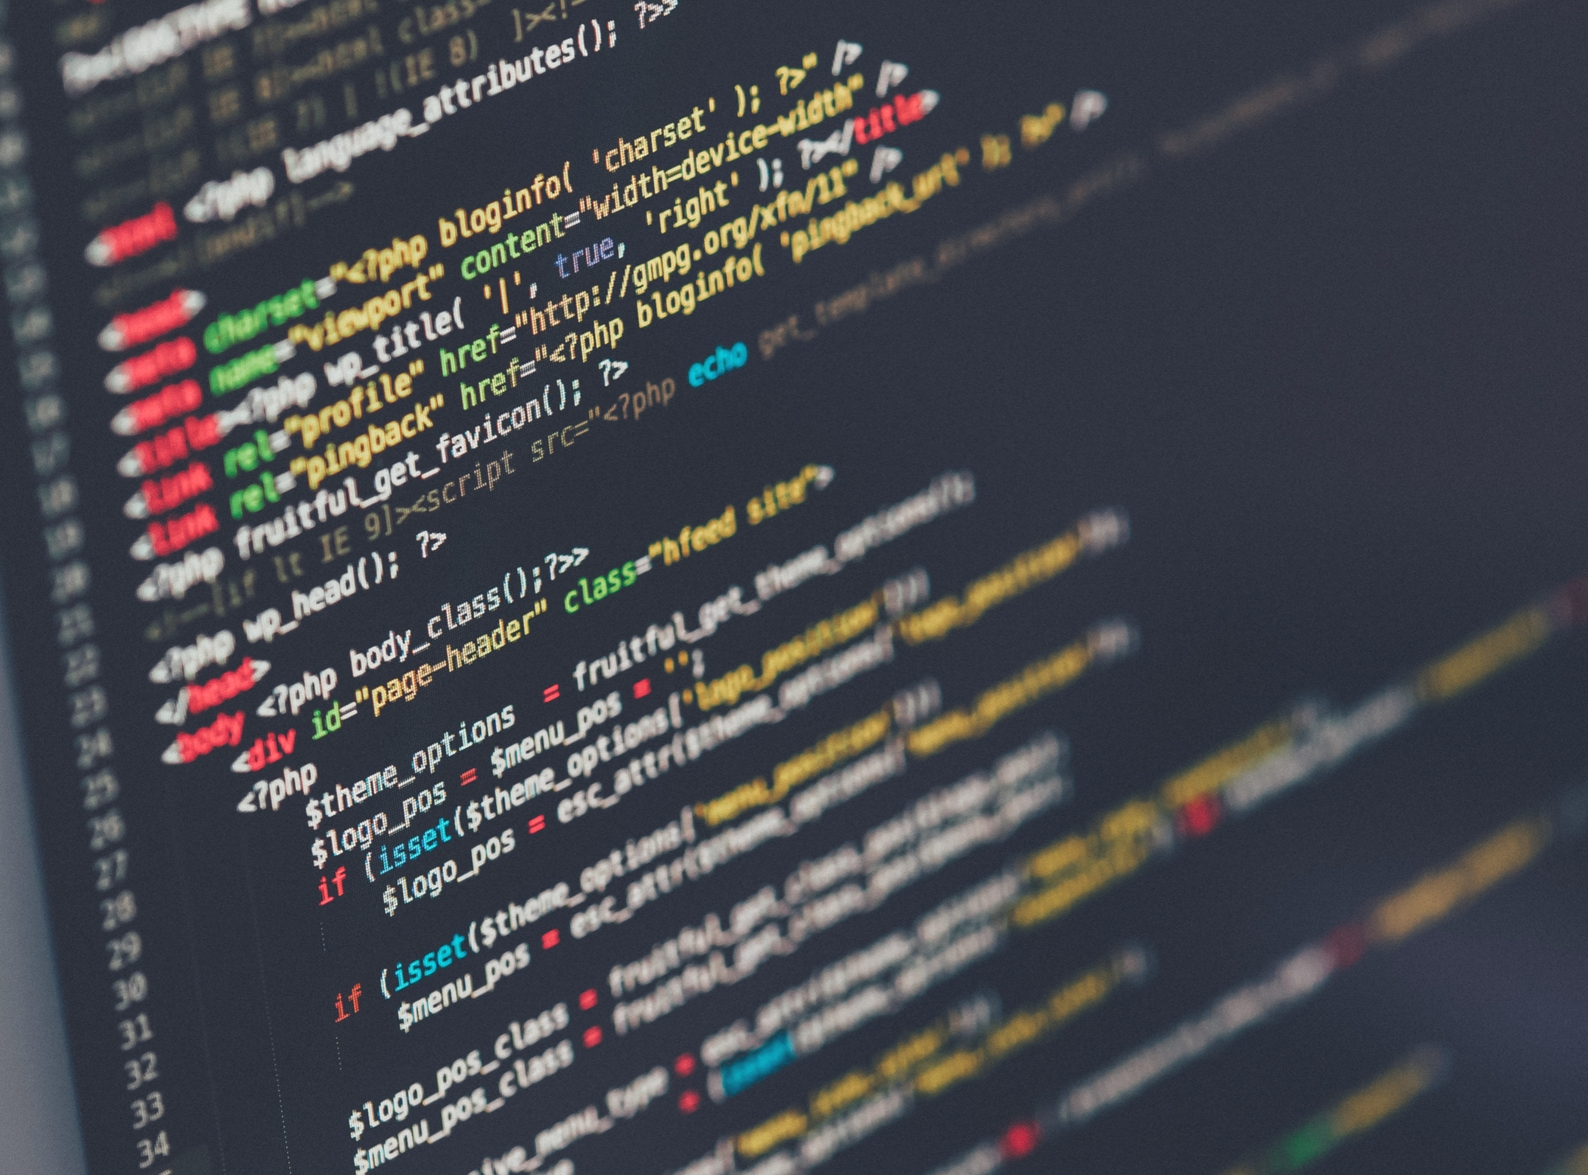
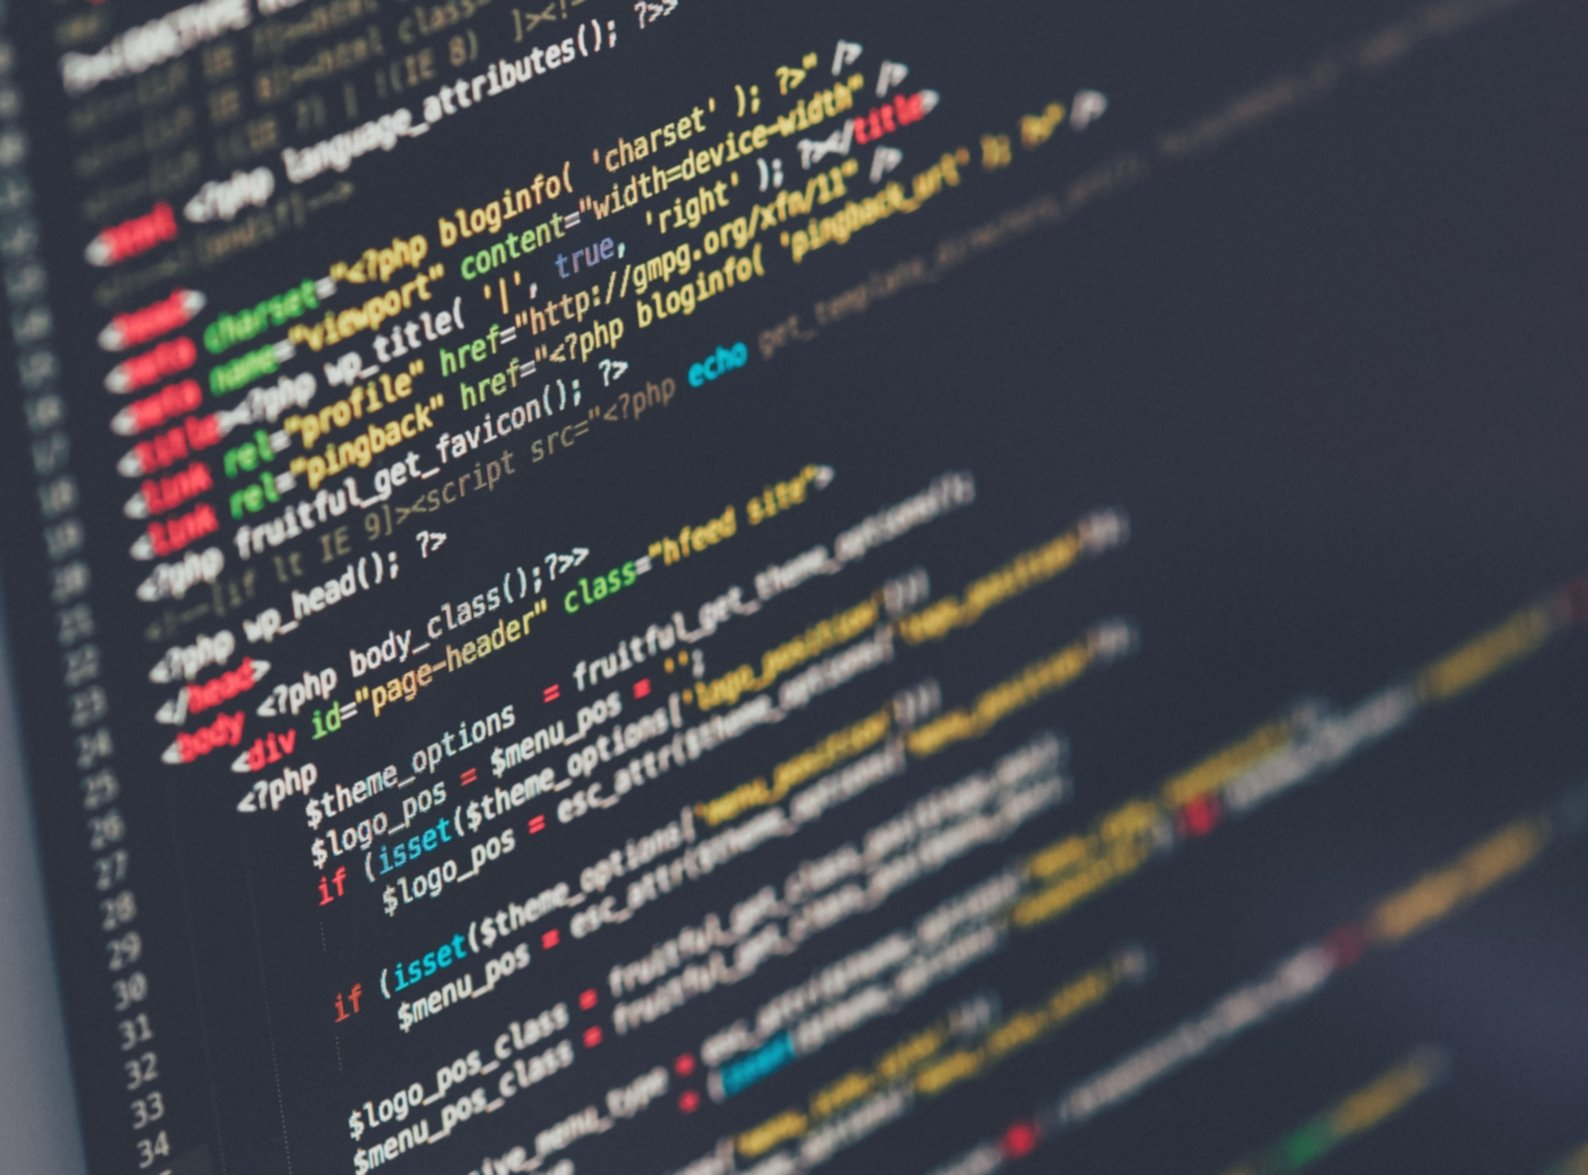
Optimized header image + additional styling

diff --git a/thecoreteam.html b/thecoreteam.html
@@ -11,21 +11,26 @@ layout: default
           </header>
           <p>We at SDS  are a vibrant community of student developers, but like any well organized structure, we have a core team that leads the group.</br>
           Let's meet them here!</p>
-          <b>Levi Vaguez </b></br>
-          <img src="/assets/images/levi.png" align="left" width="190" height="190" /></br>
-          <p>A young man who considers himself to be an out of the box thinker and likes to approach life in a different way. A passionate foodie and a die hard comics book fan who is a great listener of music and finds time to bring out his creative literature skills. Follow him <a href="https://www.linkedin.com/in/levi-vaguez-8b36a9129" target="_blank" rel="noopener">here.</a></p>
-          <p><br><br><br><br></p>
-          <b>Ganesh Venkat Subramanium </b></br>
-          <img src="/assets/images/venkat.png" align="left" width="190" height="190"/></br>
-          <p>A young man who considers himself to be an out of the box thinker and likes to approach life in a different way. A passionate foodie and a die hard comics book fan who is a great listener of music and finds time to bring out his creative literature skills. Follow him <a href="https://www.linkedin.com/in/levi-vaguez-8b36a9129" target="_blank" rel="noopener">here.</a></p>
-          <p><br><br><br><br></p>
+          <div class="item">
+            <b>Levi Vaguez</b><br>
+            <img src="/assets/images/levi.png" class="bioimage"/></br>
+            <p>A young man who considers himself to be an out of the box thinker and likes to approach life in a different way. A passionate foodie and a die hard comics book fan who is a great listener of music and finds time to bring out his creative literature skills. Follow him <a href="https://www.linkedin.com/in/levi-vaguez-8b36a9129" target="_blank" rel="noopener">here.</a></p>
+          </div>
+          <div class="item">
+            <b>Ganesh Venkat Subramanium </b></br>
+            <img src="/assets/images/venkat.png" class="bioimage"/></br>
+            <p>A young man who considers himself to be an out of the box thinker and likes to approach life in a different way. A passionate foodie and a die hard comics book fan who is a great listener of music and finds time to bring out his creative literature skills. Follow him <a href="https://www.linkedin.com/in/levi-vaguez-8b36a9129" target="_blank" rel="noopener">here.</a></p>
+          </div>
+          <div class="item">
           <b>Prejith Premkumar </b></br>
-          <img src="/assets/images/prejith.png" align="left" width="190" height="190"/>
+          <img src="/assets/images/prejith.png" class="bioimage"/>
           <p>A young man who considers himself to be an out of the box thinker and likes to approach life in a different way. A passionate foodie and a die hard comics book fan who is a great listener of music and finds time to bring out his creative literature skills. Follow him <a href="https://www.linkedin.com/in/levi-vaguez-8b36a9129" target="_blank" rel="noopener">here.</a></p>
-          <p><br><br><br><br><br></p>
+          </div>
+          <div class="item">
           <b>Enfa Rose George</b></br>
-          <img src="/assets/images/enfa.png" align="left" width="190" height="190"/>
+          <img class="bioimage" src="/assets/images/enfa.png" class="bioimage"/>
           <p>A young man who considers himself to be an out of the box thinker and likes to approach life in a different way. A passionate foodie and a die hard comics book fan who is a great listener of music and finds time to bring out his creative literature skills. Follow him <a href="https://www.linkedin.com/in/levi-vaguez-8b36a9129" target="_blank" rel="noopener">here.</a></p>
+          </div>
           
         </div>
 </div>

diff --git a/assets/css/style.css b/assets/css/style.css
@@ -197,6 +197,12 @@
 				display: block;
 				width: 100%;
 			}
+			.bioimage{
+				margin: 10px 20px;
+				float:left;
+				width: 198px;
+				height: 198px;
+			}
 
 			.image.featured
 			{
@@ -790,7 +796,11 @@
 	{
 		color: #fff;
 	}
+	.item {
+		padding-top: 2%;
+		clear:left;
 
+	}
 /*********************************************************************************/
 /* Header                                                                        */
 /*********************************************************************************/
@@ -921,6 +931,7 @@
 	{
 		position: relative;
 		background: #fff;
+		overflow: auto;
 	}
 
 	.homepage #content

diff --git a/_posts/2015-09-23-codetest.md b/_posts/2015-09-23-codetest.md
@@ -1,10 +1,16 @@
 ---
 title: Testing Code
 layout: post
+categories: java, tutorials
 ---
 This post is intended to test how the code styling is working.
 
+To put a code snippet in your blog post add ``` before the first line and after the last line of your code snippet.
+
+The site uses markdown to format blog posts. It is a very simple formatting language. If you are not familiar with it, you can get familiar with it in five minutes in this link. If you'd rather write in html, you can do that too. Additionally, you could just send us your plaintext file along with any images in your post and we can work it out from our end. I typed this paragraph out to test if I can remove the code snippet from the post preview.
+
 ```
+
 public class HangmanLogic {
 
     private String word;
@@ -56,4 +62,5 @@ public class HangmanLogic {
         
     }
 }
+
 ```
